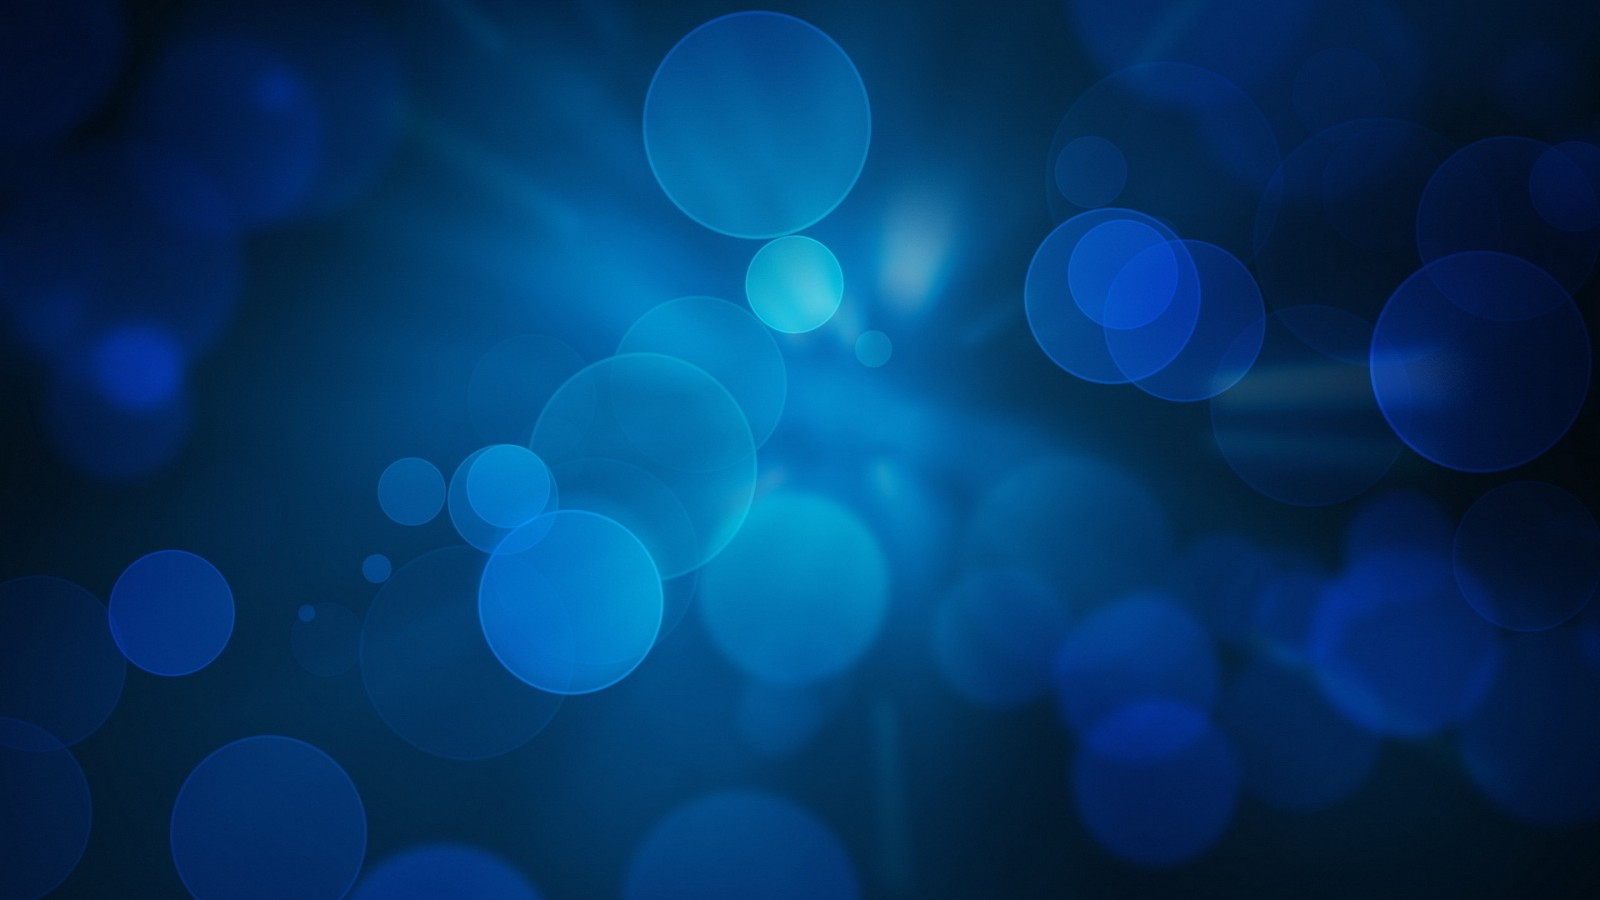
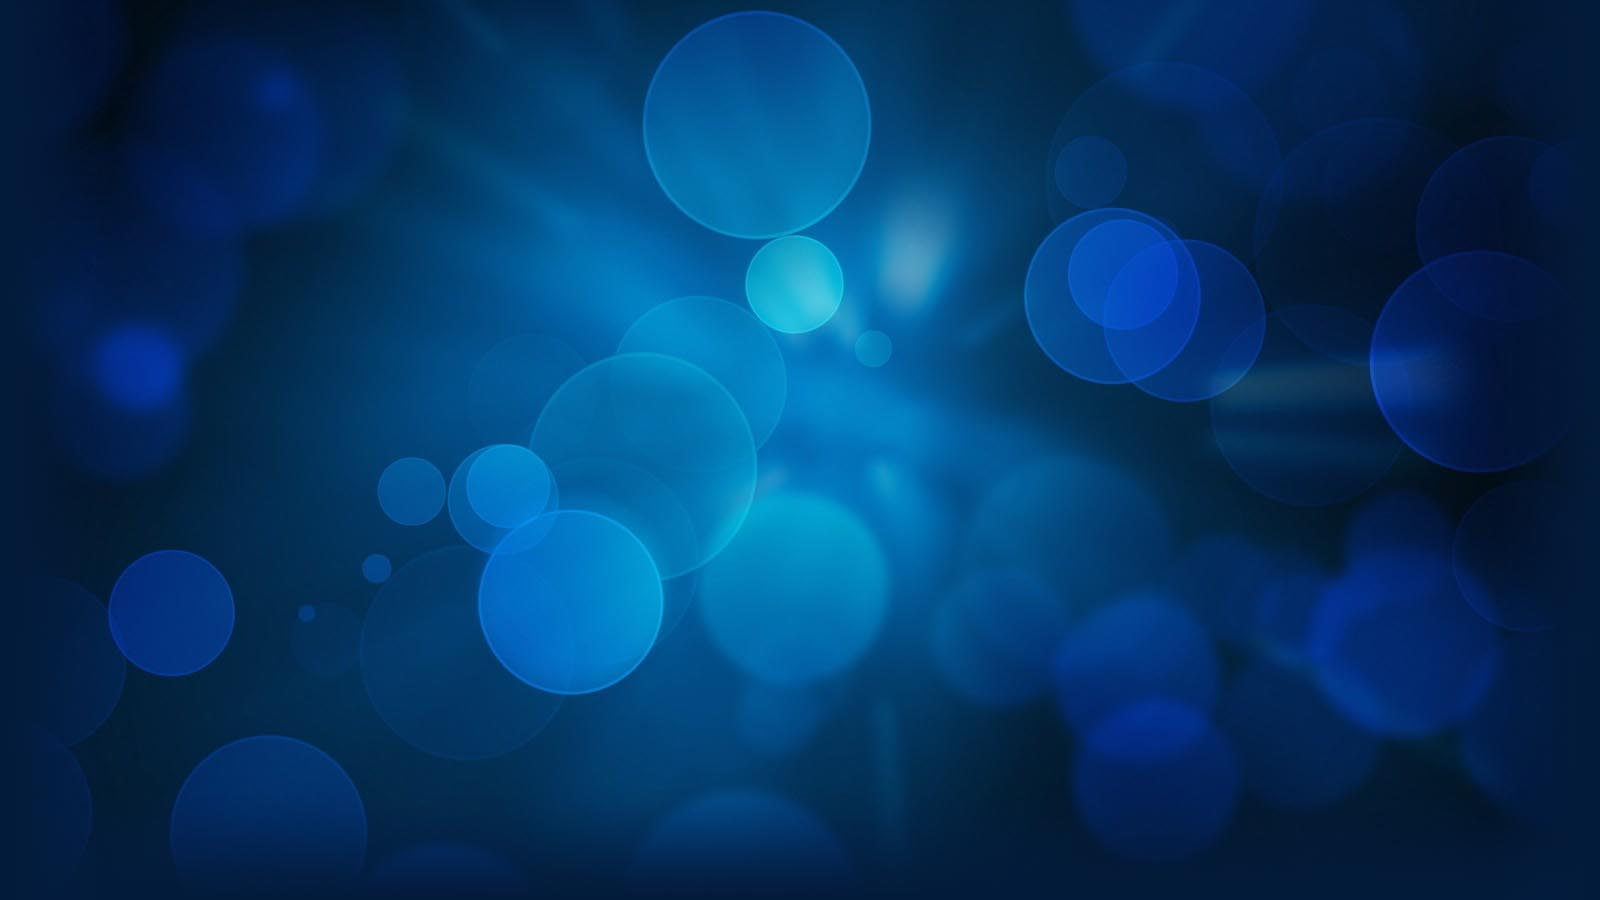
fixes #19 - background tiling issue (#21)

diff --git a/src/app/app.scss b/src/app/app.scss
@@ -39,7 +39,7 @@
 
 // MWyld: If I had more time I would make this into a paralax effect
 .fixed-content {
-  background: url('../assets/imgs/bg.jpg') fixed top center;
+  background: #031b3a url('../assets/imgs/bg.jpg') no-repeat top center;
 }
 
 .toast-container {
